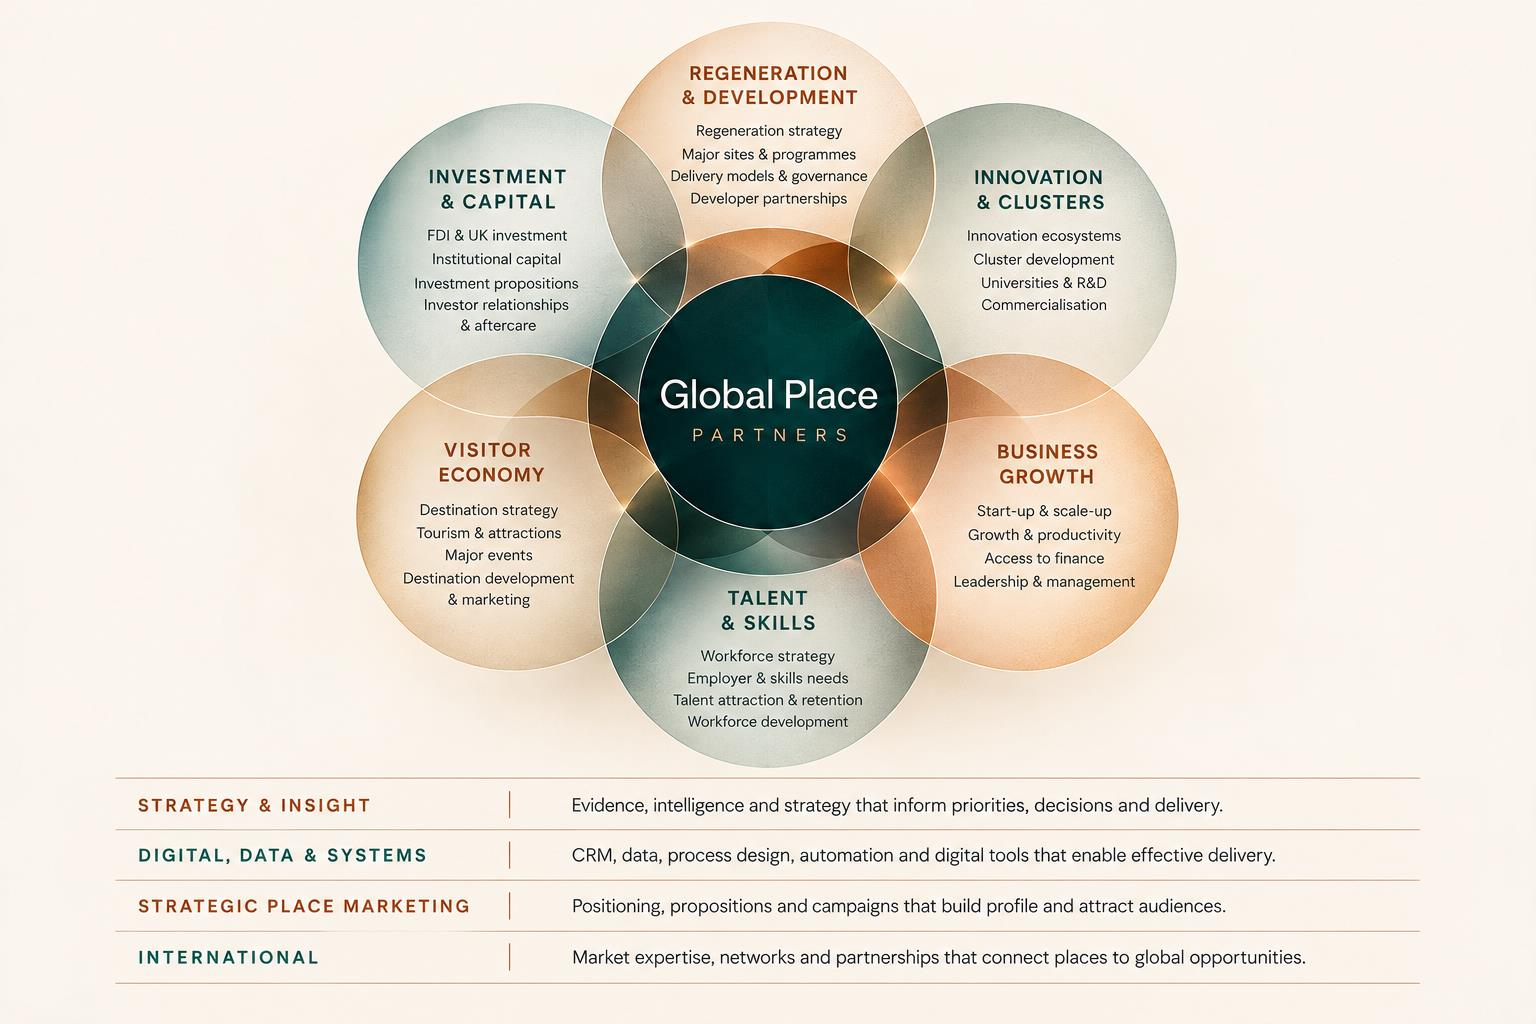
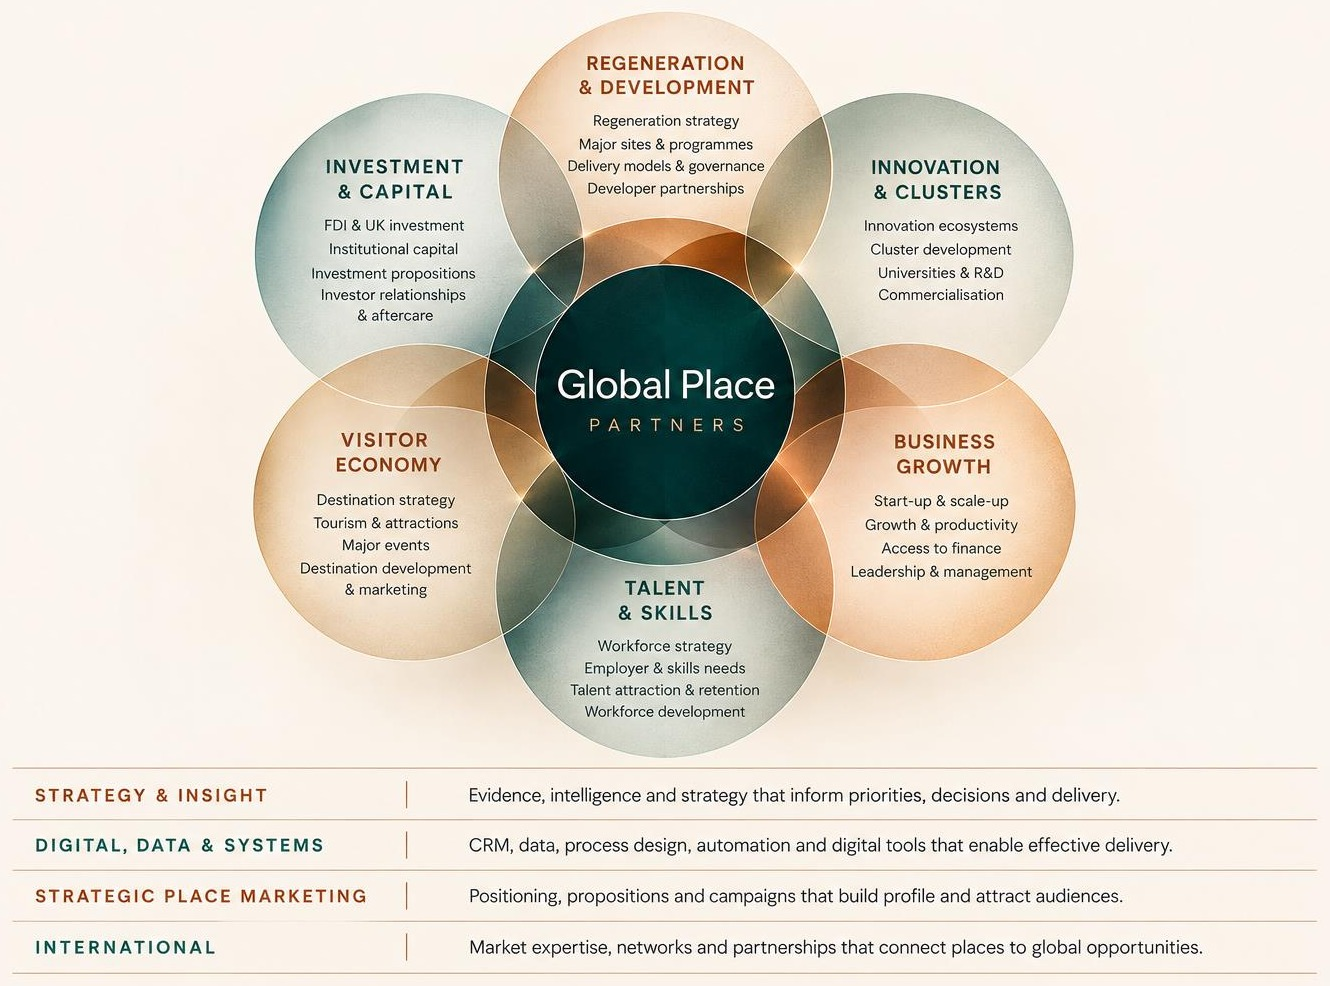
Tighten the pages to the PowerPoint and update the owner guide.
The header uses the white wordmark with its flat background removed, the Constellation and Growth Model sit tight to the artwork, and the section spacing is closer to the mock-ups. The guide now asks Dan to replace the photographs in the admin and notes the Cursor credit cost for ccdesigner.

diff --git a/src/styles.css b/src/styles.css
@@ -43,45 +43,48 @@ button, input, textarea, select { font: inherit; color: inherit; }
   position: sticky;
   top: 0;
   z-index: 30;
-  background: rgba(246, 241, 232, 0.94);
-  backdrop-filter: blur(12px);
-  border-bottom: 1px solid var(--line);
+  background: var(--green);
+  color: #f4efe6;
+  border-bottom: 0;
 }
 .header-inner, .wrap, .footer-inner {
   width: min(1120px, calc(100% - 2.5rem));
   margin: 0 auto;
 }
 .header-inner {
-  min-height: 5rem;
+  min-height: 4.1rem;
   display: flex;
   align-items: center;
   justify-content: space-between;
-  gap: 1.5rem;
+  gap: 1.25rem;
 }
-.header-inner a img { height: 58px; width: auto; }
-.nav-desktop { display: flex; gap: 1.35rem; align-items: center; }
+.header-inner a img, .site-footer .logo { height: 34px; width: auto; background: transparent; padding: 0; }
+.nav-desktop { display: flex; gap: 1.15rem; align-items: center; }
 .nav-desktop a, .nav-mobile a {
   text-decoration: none;
-  font-size: 0.98rem;
+  font-size: 0.92rem;
   font-weight: 600;
+  color: #f4efe6;
 }
-.nav-desktop a[aria-current="page"] { color: var(--teal); box-shadow: inset 0 -2px 0 var(--copper); }
+.nav-desktop a[aria-current="page"] { color: #fff; box-shadow: inset 0 -2px 0 var(--copper); }
 .menu-toggle {
   display: none;
   background: transparent;
-  border: 1px solid var(--line);
-  padding: 0.45rem 0.7rem;
+  color: #f4efe6;
+  border: 1px solid rgba(244, 239, 230, 0.35);
+  padding: 0.4rem 0.65rem;
 }
 .nav-mobile {
   display: none;
-  border-top: 1px solid var(--line);
-  padding: 0.5rem 1.25rem 1.25rem;
+  background: var(--green);
+  border-top: 1px solid rgba(244, 239, 230, 0.16);
+  padding: 0.25rem 1.25rem 1rem;
 }
-.nav-mobile a { display: block; padding: 0.7rem 0; border-bottom: 1px solid var(--line); }
+.nav-mobile a { display: block; padding: 0.65rem 0; border-bottom: 1px solid rgba(244, 239, 230, 0.16); }
 
-.band { padding: 5.5rem 0; }
-.band-compact { padding: 3.25rem 0; }
-.band-generous { padding: 6.5rem 0; }
+.band { padding: 2.75rem 0; }
+.band-compact { padding: 1.75rem 0; }
+.band-generous { padding: 3.35rem 0; }
 .band-paper { background: var(--paper); }
 .band-cream { background: var(--cream); }
 .band-white { background: var(--white); }
@@ -116,17 +119,19 @@ h3 { font-size: clamp(1.6rem, 2vw, 2rem); }
 
 .split, .hero-grid {
   display: grid;
-  grid-template-columns: minmax(16rem, 0.9fr) minmax(18rem, 1.2fr);
-  gap: 3.5rem;
-  align-items: end;
+  grid-template-columns: minmax(16rem, 0.92fr) minmax(16rem, 1.08fr);
+  gap: 1.75rem 2rem;
+  align-items: start;
 }
-.hero-grid { align-items: center; grid-template-columns: 1.15fr 0.85fr; }
+.hero-grid { align-items: center; grid-template-columns: 1.05fr 0.95fr; gap: 1.25rem 1.5rem; }
+.hero-art { background: #140e0a; }
 .split-reverse .prose { order: 2; }
-.constellation { width: min(100%, 460px); margin-left: auto; mix-blend-mode: multiply; }
-.band-deep .constellation, .band-green .constellation {
+.constellation {
+  width: 100%;
+  margin: 0;
+  background: transparent;
+  padding: 0;
   mix-blend-mode: normal;
-  background: #f6f1e8;
-  padding: 0.75rem;
 }
 
 .link-row { display: flex; flex-wrap: wrap; gap: 1.25rem 2rem; margin-top: 1.75rem; }
@@ -143,8 +148,8 @@ h3 { font-size: clamp(1.6rem, 2vw, 2rem); }
 .modes li {
   display: grid;
   grid-template-columns: 11rem 1fr;
-  gap: 1.5rem;
-  padding: 1.4rem 0;
+  gap: 1rem 1.5rem;
+  padding: 0.95rem 0;
   border-top: 1px solid var(--line);
 }
 .modes h3 { text-transform: uppercase; letter-spacing: 0.08em; font-size: 1rem; color: var(--copper); }
@@ -152,11 +157,11 @@ h3 { font-size: clamp(1.6rem, 2vw, 2rem); }
 
 .diagram-scroll {
   overflow-x: auto;
-  margin: 2rem 0 0.75rem;
-  background: #f7f1e7;
-  border: 1px solid var(--line);
+  margin: 1.25rem 0 0.5rem;
+  background: transparent;
+  border: 0;
 }
-.diagram-scroll img { min-width: 760px; width: 100%; }
+.diagram-scroll img { width: 100%; }
 .diagram-help { font-size: 0.95rem; }
 .driver-grid, .people-grid, .insight-grid {
   display: grid;
@@ -170,15 +175,16 @@ h3 { font-size: clamp(1.6rem, 2vw, 2rem); }
 .capability-list { list-style: none; padding: 0; margin: 2.5rem 0 0; display: grid; gap: 1rem; }
 .capability-list li { display: grid; grid-template-columns: 16rem 1fr; gap: 1rem; }
 
-.person { display: grid; grid-template-columns: 180px 1fr; gap: 1.4rem; align-items: start; }
+.person { display: grid; grid-template-columns: 88px 1fr; gap: 0.85rem; align-items: start; }
 .person.no-photo { grid-template-columns: 1fr; }
-.portrait { aspect-ratio: 4 / 5; overflow: hidden; background: var(--cream); }
+.portrait { aspect-ratio: 1; overflow: hidden; background: var(--cream); }
 .portrait img { width: 100%; height: 100%; object-fit: cover; }
-.person h3 { font-size: 1.7rem; }
-.role { color: var(--teal); font-weight: 700; margin: 0.25rem 0 0.8rem; }
-.group-label { margin: 2.5rem 0 1rem; }
-.people-grid { grid-template-columns: 1fr; }
+.person h3 { font-size: 1.2rem; }
+.role { color: var(--teal); font-weight: 700; margin: 0.15rem 0 0.4rem; font-size: 0.95rem; }
+.group-label { margin: 1.5rem 0 0.55rem; font-size: 0.78rem; letter-spacing: 0.14em; text-transform: uppercase; }
+.people-grid { grid-template-columns: 1fr 1fr; gap: 1.1rem 1.5rem; margin-top: 0.4rem; }
 .people-grid.associates { grid-template-columns: repeat(3, 1fr); align-items: start; }
+.people-grid.associates .person { grid-template-columns: 1fr; gap: 0.55rem; }
 
 .insight-feature { display: grid; grid-template-columns: 1.4fr 0.8fr; gap: 2rem; padding-bottom: 2rem; border-bottom: 1px solid var(--line); }
 .kicker { color: var(--copper); font-size: 0.78rem; font-weight: 700; letter-spacing: 0.14em; text-transform: uppercase; }
@@ -267,14 +273,14 @@ button.primary, .primary {
   .nav-desktop { display: none; }
   .menu-toggle { display: inline-flex; }
   .nav-mobile.open { display: block; }
-  .split, .hero-grid, .contact-grid, .insight-feature, .footer-grid, .admin-main, .person, .capability-list li, .modes li {
+  .split, .hero-grid, .contact-grid, .insight-feature, .footer-grid, .admin-main, .person, .capability-list li, .modes li, .people-grid {
     grid-template-columns: 1fr;
   }
   .driver-grid, .people-grid.associates, .insight-grid { grid-template-columns: 1fr; }
+  .band, .band-generous { padding: 2.4rem 0; }
   .constellation { margin: 0; }
   .cookie { flex-direction: column; align-items: stretch; }
   h1 { font-size: clamp(2.6rem, 12vw, 3.6rem); }
-  .band, .band-generous { padding: 3.5rem 0; }
 }
 
 @media (min-width: 700px) and (max-width: 1020px) {

diff --git a/server/seed.js b/server/seed.js
@@ -48,7 +48,7 @@ export function createSeed() {
         deep: "#0C1F1C",
       },
       fonts: { heading: "Outfit", body: "Source Sans 3" },
-      logo: { src: "/images/gpp-logo.png", alt: "Global Place Partners" },
+      logo: { src: "/images/gpp-logo-white.png", alt: "Global Place Partners" },
       constellation: { src: "/images/constellation.png", alt: "Constellation artwork: overlapping circles in copper, sand, teal and green." },
       contact: { email: "enquiries@globalplacepartners.com" },
       legal: {
@@ -100,7 +100,7 @@ export function createSeed() {
             heading: "Regional growth.\nJoined up.",
             subheading: "Turning regional ambition into economic growth.",
             body: "Global Place Partners brings together senior practitioners working as one team to connect strategy, investment, people, place and delivery.",
-            image: "/images/constellation.png",
+            image: "/images/constellation-hero.jpg",
             imageAlt: "Constellation artwork: overlapping circles in copper, sand, teal and green.",
             linkLabel: "Explore our approach",
             linkHref: "#home-approach",
@@ -184,7 +184,7 @@ export function createSeed() {
             eyebrow: "About Global Place Partners",
             heading: "A new era for regional growth.\nA new challenge for delivery.",
             body: "Devolution is reshaping England's economic landscape. Regional leaders have greater responsibility for their economies, creating new opportunities to attract investment, develop local strengths and shape their economic futures.\n\nBut with greater responsibility comes a bigger challenge: turning ambition into lasting economic growth.\n\nAcross the country, new and established regional institutions are developing ambitious plans. The real test is what happens next. Success depends on having the right organisations, capabilities and partnerships in place, alongside the experience to turn strategies into results.\n\nGlobal Place Partners was established to help meet that challenge.",
-            image: "/images/constellation.png",
+            image: "/images/constellation-hero.jpg",
             imageAlt: "Constellation artwork",
             background: "deep",
             spacing: "generous",

diff --git a/src/components/Sections.jsx b/src/components/Sections.jsx
@@ -324,8 +324,9 @@ export default function Sections({ sections }) {
     }
     const titleAs = section.type === "hero" ? "h1" : "h2";
     const splitCopy = (section.layout === "split" || section.layout === "split-reverse") && !section.image;
+    const art = section.type === "hero" && section.image ? " hero-art" : "";
     return (
-      <section key={section.id} id={section.id} className={bandClass(section)}>
+      <section key={section.id} id={section.id} className={`${bandClass(section)}${art}`}>
         <div className={`wrap ${section.type === "hero" && section.image ? "hero-grid" : layout}`}>
           {splitCopy ? (
             <>

diff --git a/src/components/Layout.jsx b/src/components/Layout.jsx
@@ -78,7 +78,7 @@ export default function Layout({ children }) {
       <footer className="site-footer">
         <div className="footer-inner footer-grid">
           <div>
-            <img src={settings.logo?.src} alt="" style={{ height: 42, width: "auto", background: "#f6f1e8", padding: "0.35rem 0.5rem" }} />
+            <img className="logo" src={settings.logo?.src} alt="" />
             <p>{settings.footer?.blurb}</p>
           </div>
           <div>
